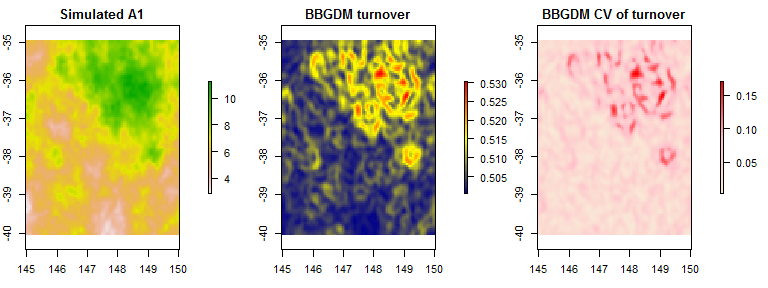
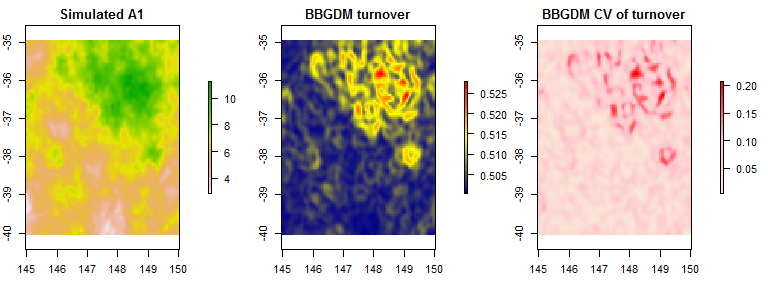
read me additions

diff --git a/README.md b/README.md
@@ -1,6 +1,6 @@
 ### BBGDM
 
-[![Travis-CI Build Status](https://travis-ci.org/skiptoniam/bbgdm.svg?branch=master)](https://travis-ci.org/skiptoniam/bbgdm)
+[![Travis-CI Build Status](https://travis-ci.org/skiptoniam/bbgdm.svg?branch=master)](https://travis-ci.org/skiptoniam/bbgdm) [![codecov.io](https://codecov.io/github/skiptoniam/bbgdm/coverage.svg?branch=master)](https://codecov.io/github/skiptoniam/bbgdm?branch=master)
 
 BBGDM is a R package for running Generalized Dissimilarity Models with Bayesian Bootstrap for parameter estimation. To install package run the following command in your R terminal
 
@@ -51,10 +51,10 @@ print(fm1)
     ##  A total of 100 Bayesian Bootstraps were run.
     ## 
     ##  Spline base parameter estimates are: 
-    ##  (Intercept) 0.6535
+    ##  (Intercept) 0.6089
     ##  x_1 0
-    ##  x_2 0.2768
-    ##  x_3 0.5422
+    ##  x_2 0.1866
+    ##  x_3 0.5166
 
 ##### Plot diagnostics
 
@@ -64,7 +64,7 @@ par(mfrow=c(2,2))
 plot(resids)
 ```
 
-<img src="readme_files/figure-markdown_github/unnamed-chunk-6-1.png" title="" alt="" style="display: block; margin: auto;" />
+<img src="readme_files/figure-markdown_github/unnamed-chunk-6-1.png" style="display: block; margin: auto;" />
 
 ##### Plot response curves
 
@@ -74,7 +74,7 @@ par(mfrow=c(1,1))
 plot(response)
 ```
 
-<img src="readme_files/figure-markdown_github/unnamed-chunk-7-1.png" title="" alt="" style="display: block; margin: auto;" />
+<img src="readme_files/figure-markdown_github/unnamed-chunk-7-1.png" style="display: block; margin: auto;" />
 
 ##### Run 'Wald-like' test on parameters
 
@@ -85,8 +85,8 @@ tab <- xtable(wt)
 print(tab, type = "html")
 ```
 
-<!-- html table generated in R 3.2.2 by xtable 1.8-0 package -->
-<!-- Thu Jul 07 01:29:08 2016 -->
+<!-- html table generated in R 3.2.2 by xtable 1.8-2 package -->
+<!-- Thu Jul 07 11:13:07 2016 -->
 <table border="1">
 <tr>
 <th>
@@ -106,7 +106,7 @@ bbgdm\_p-value
 intercept
 </td>
 <td align="right">
-12.52
+7.96
 </td>
 <td align="right">
 1.00
@@ -120,13 +120,13 @@ intercept
 A1
 </td>
 <td align="right">
-3.77
+1.50
 </td>
 <td align="right">
 3.00
 </td>
 <td align="right">
-0.29
+0.68
 </td>
 </tr>
 </table>
@@ -165,4 +165,4 @@ plot(pred.dune.sim.dat[[1]],col=colram(100),main='BBGDM turnover')
 plot(pred.dune.sim.dat[[2]],col=colram.se(100),main='BBGDM CV of turnover')
 ```
 
-<img src="readme_files/figure-markdown_github/unnamed-chunk-9-1.png" title="" alt="" style="display: block; margin: auto;" />
+<img src="readme_files/figure-markdown_github/unnamed-chunk-9-1.png" style="display: block; margin: auto;" />
